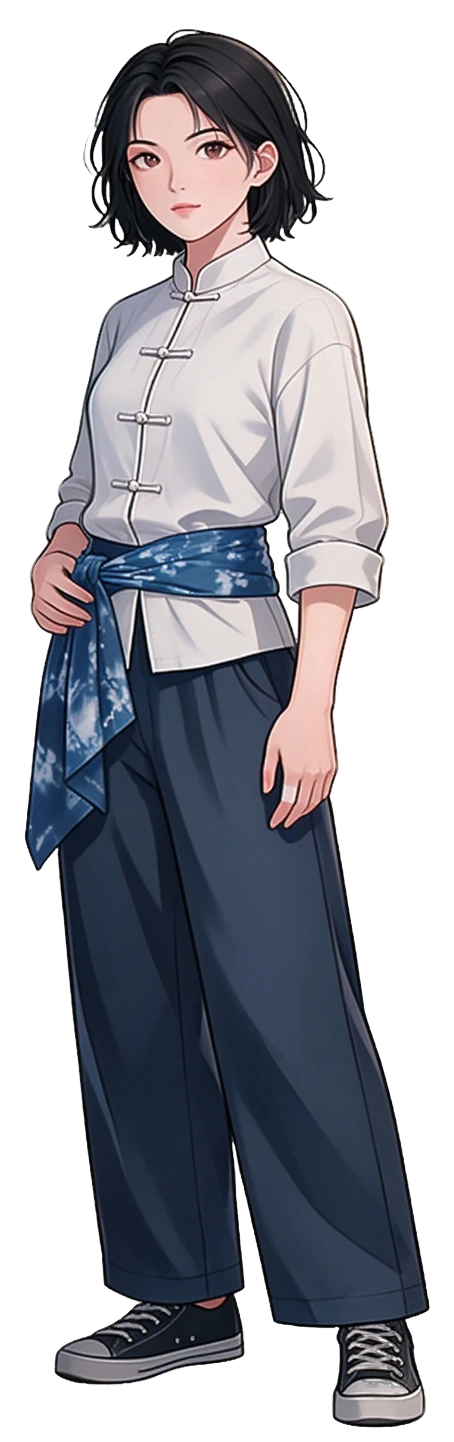
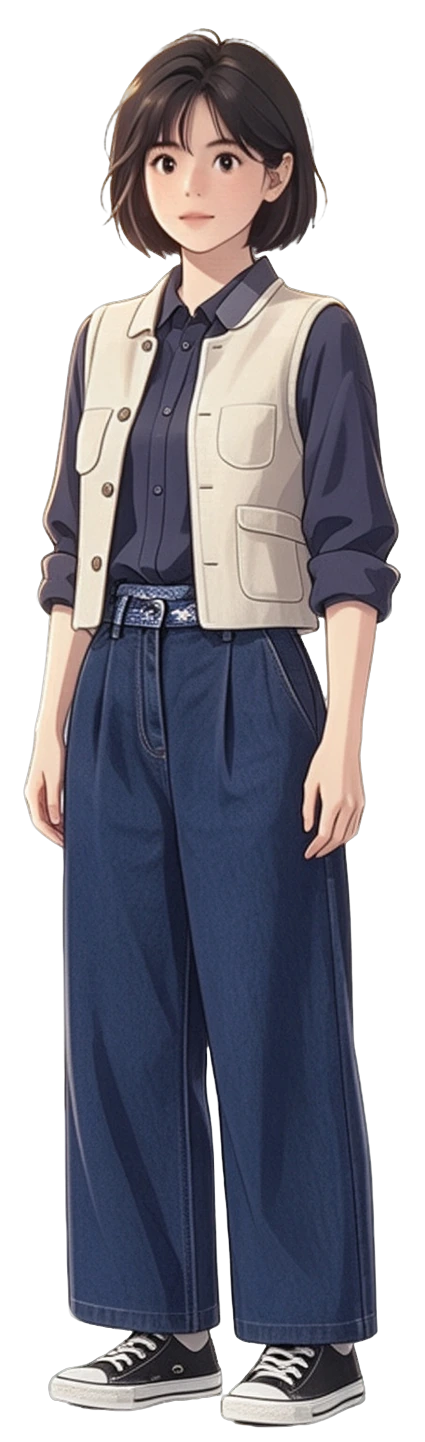
feat(立绘): 更新阿禾左右站位形象
- 源图 photo/角色形象/阿禾_{左,右}站位.png 换为 1804x1568 新版（透明底全身像）
- 重新生成 char-ahe-left.webp / char-ahe-right.webp（425x1442，比例 0.295，106~110 KB）
- 文件名与 characters.ts 引用保持不变，调用位置零改动
- import-characters.py 新增「只处理指定角色」参数，避免换单角色时重编码其余立绘
- 验收：characters 14/14（单人/双人左右站位、贴底、无重叠）

diff --git a/scripts/import-characters.py b/scripts/import-characters.py
@@ -21,6 +21,7 @@
   E:/Python/python.exe scripts/import-characters.py
 """
 import os
+import sys
 from PIL import Image
 
 # ---------------- 配置（改这里即可换图/改规格） ----------------
@@ -38,6 +39,15 @@ CHARS = [
 ]
 # （源文件后缀, 输出文件后缀）
 SIDES = [('左站位', 'left'), ('右站位', 'right')]
+
+# 只处理指定角色：`python scripts/import-characters.py 阿禾 [九婆 ...]`
+# 不传则处理全部（换单角色素材时建议只跑该角色，避免其余角色的 WebP 被重新编码）
+_ONLY = [a for a in sys.argv[1:] if not a.startswith('--')]
+if _ONLY:
+    CHARS = [c for c in CHARS if c[0] in _ONLY]
+    if not CHARS:
+        print(f'未匹配到角色：{_ONLY}（可选：九婆 / 阿禾 / 知遥 / 周经理 / 阿鲟）')
+        raise SystemExit(1)
 
 TARGET_CHAR_H = 1400   # 人物像素高度（CharacterLayer 最大 88vh，2x 屏够用）
 TARGET_LAMP_W = 1100   # 阿鲟鱼灯像素宽度（2:1 横图，按宽定尺）
